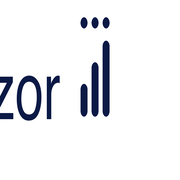
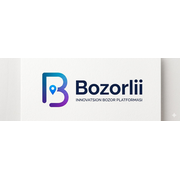
feat(brand): Switch from Karvon to Bozorliii
- Replace karvon→bozorliii across frontend/backend/merchant-crm/merchant-crm-mobile
- Update SITENAME, BRAND_NAME, domain bozorliii.uz, AGENT_TELEGRAM_HANDLE
- BozorliiiLogo component now uses real /logo.png image
- Copy logo.png to platform-admin & merchant-crm public dirs
- Regenerate favicon/icon files

diff --git a/frontend/src/components/brand/bozorliii-logo.tsx b/frontend/src/components/brand/bozorliii-logo.tsx
@@ -1,5 +1,6 @@
 "use client";
 
+import Image from "next/image";
 import Link from "next/link";
 
 import { cn } from "@/lib/utils";
@@ -37,92 +38,42 @@ export function BozorliiiLogo({
   const s = SIZE[size].scale;
   const capsuleLabel = badge?.trim() ?? "";
 
-  /* Icon: navy B badge */
-  const icon = (
+  /* Logo image rendered from /logo.png */
+  const logoImage = (
     <div
-      className="flex shrink-0 items-center justify-center font-black text-white select-none rounded-xl"
+      className="relative flex items-center justify-center"
       style={{
-        width: `${40 * s}px`,
+        width: `${120 * s}px`,
         height: `${40 * s}px`,
-        fontSize: `${22 * s}px`,
-        background: "#003366",
-        boxShadow: "0 2px 12px rgba(0,51,102,0.35)",
       }}
-      aria-hidden="true"
     >
-      B
+      <Image
+        src="/logo.png"
+        alt="Bozorliii"
+        fill
+        className="object-contain object-center"
+        priority
+        sizes={`${Math.round(120 * s)}px`}
+      />
     </div>
   );
 
-  /* Wordmark: BoZorlIII with three dots above "lii" */
-  const wordmark = (
-    <span className="inline-flex items-baseline font-black leading-none select-none" style={{ fontSize: `${24 * s}px` }}>
-      <span className="text-[#0a0a0a]">BoZor</span>
-      <span className="relative text-[#0a0a0a]">
-        {/* Three colourful dots */}
-        <span className="absolute left-0 right-0 -top-[1px] flex justify-center gap-[3px]">
-          <span
-            className="inline-block rounded-full"
-            style={{
-              width: `${6 * s}px`,
-              height: `${6 * s}px`,
-              background: "#003366",
-            }}
-          />
-          <span
-            className="inline-block rounded-full"
-            style={{
-              width: `${6 * s}px`,
-              height: `${6 * s}px`,
-              background: "#f59e0b",
-            }}
-          />
-          <span
-            className="inline-block rounded-full"
-            style={{
-              width: `${6 * s}px`,
-              height: `${6 * s}px`,
-              background: "#f97316",
-            }}
-          />
-        </span>
-        lI
-      </span>
-      <span className="text-[#0a0a0a]">II</span>
-    </span>
-  );
-
-  const brandText = (
-    <div className="flex flex-col justify-center leading-none">
-      <div className="flex items-baseline gap-1.5">
-        {variant !== "icon" ? wordmark : null}
-        {variant !== "icon" && capsuleLabel ? (
-          <span
-            className="inline-flex shrink-0 items-center rounded-md border font-bold tracking-wide"
-            style={{
-              fontSize: `${10 * s}px`,
-              padding: `${2 * s}px ${7 * s}px`,
-              borderColor: "#e2e8f0",
-              background: "#f8fafc",
-              color: "#64748b",
-            }}
-          >
-            {capsuleLabel}
-          </span>
-        ) : null}
-      </div>
-      {showTagline ? (
-        <span
-          className="font-semibold tracking-[0.15em] uppercase"
-          style={{
-            fontSize: `${9 * s}px`,
-            marginTop: `${3 * s}px`,
-            color: "#003366",
-          }}
-        >
-          INNOVATSION BOZOR PLATFORMASI
-        </span>
-      ) : null}
+  const iconBadge = (
+    <div
+      className="relative flex items-center justify-center overflow-hidden"
+      style={{
+        width: `${40 * s}px`,
+        height: `${40 * s}px`,
+      }}
+    >
+      <Image
+        src="/logo.png"
+        alt="Bozorliii"
+        fill
+        className="object-contain object-center"
+        priority
+        sizes={`${Math.round(40 * s)}px`}
+      />
     </div>
   );
 
@@ -135,8 +86,33 @@ export function BozorliiiLogo({
       )}
       style={{ gap: `${10 * s}px` }}
     >
-      {icon}
-      {variant !== "icon" ? brandText : null}
+      {variant === "icon" ? iconBadge : logoImage}
+      {variant !== "icon" && capsuleLabel ? (
+        <span
+          className="inline-flex shrink-0 items-center rounded-md border font-bold tracking-wide"
+          style={{
+            fontSize: `${10 * s}px`,
+            padding: `${2 * s}px ${7 * s}px`,
+            borderColor: "#e2e8f0",
+            background: "#f8fafc",
+            color: "#64748b",
+          }}
+        >
+          {capsuleLabel}
+        </span>
+      ) : null}
+      {showTagline ? (
+        <span
+          className="font-semibold tracking-[0.15em] uppercase"
+          style={{
+            fontSize: `${9 * s}px`,
+            marginTop: `${3 * s}px`,
+            color: "#003366",
+          }}
+        >
+          INNOVATSIYON BOZOR PLATFORMASI
+        </span>
+      ) : null}
     </div>
   );
 

diff --git a/merchant-crm/src/components/brand/bozorliii-logo.tsx b/merchant-crm/src/components/brand/bozorliii-logo.tsx
@@ -1,5 +1,6 @@
 "use client";
 
+import Image from "next/image";
 import Link from "next/link";
 
 import { cn } from "@/lib/utils";
@@ -37,92 +38,42 @@ export function BozorliiiLogo({
   const s = SIZE[size].scale;
   const capsuleLabel = badge?.trim() ?? "";
 
-  /* Icon: navy B badge */
-  const icon = (
+  /* Logo image rendered from /logo.png */
+  const logoImage = (
     <div
-      className="flex shrink-0 items-center justify-center font-black text-white select-none rounded-xl"
+      className="relative flex items-center justify-center"
       style={{
-        width: `${40 * s}px`,
+        width: `${120 * s}px`,
         height: `${40 * s}px`,
-        fontSize: `${22 * s}px`,
-        background: "#003366",
-        boxShadow: "0 2px 12px rgba(0,51,102,0.35)",
       }}
-      aria-hidden="true"
     >
-      B
+      <Image
+        src="/logo.png"
+        alt="Bozorliii"
+        fill
+        className="object-contain object-center"
+        priority
+        sizes={`${Math.round(120 * s)}px`}
+      />
     </div>
   );
 
-  /* Wordmark: BoZorlIII with three dots above "lii" */
-  const wordmark = (
-    <span className="inline-flex items-baseline font-black leading-none select-none" style={{ fontSize: `${24 * s}px` }}>
-      <span className="text-[#0a0a0a]">BoZor</span>
-      <span className="relative text-[#0a0a0a]">
-        {/* Three colourful dots */}
-        <span className="absolute left-0 right-0 -top-[1px] flex justify-center gap-[3px]">
-          <span
-            className="inline-block rounded-full"
-            style={{
-              width: `${6 * s}px`,
-              height: `${6 * s}px`,
-              background: "#003366",
-            }}
-          />
-          <span
-            className="inline-block rounded-full"
-            style={{
-              width: `${6 * s}px`,
-              height: `${6 * s}px`,
-              background: "#f59e0b",
-            }}
-          />
-          <span
-            className="inline-block rounded-full"
-            style={{
-              width: `${6 * s}px`,
-              height: `${6 * s}px`,
-              background: "#f97316",
-            }}
-          />
-        </span>
-        lI
-      </span>
-      <span className="text-[#0a0a0a]">II</span>
-    </span>
-  );
-
-  const brandText = (
-    <div className="flex flex-col justify-center leading-none">
-      <div className="flex items-baseline gap-1.5">
-        {variant !== "icon" ? wordmark : null}
-        {variant !== "icon" && capsuleLabel ? (
-          <span
-            className="inline-flex shrink-0 items-center rounded-md border font-bold tracking-wide"
-            style={{
-              fontSize: `${10 * s}px`,
-              padding: `${2 * s}px ${7 * s}px`,
-              borderColor: "#e2e8f0",
-              background: "#f8fafc",
-              color: "#64748b",
-            }}
-          >
-            {capsuleLabel}
-          </span>
-        ) : null}
-      </div>
-      {showTagline ? (
-        <span
-          className="font-semibold tracking-[0.15em] uppercase"
-          style={{
-            fontSize: `${9 * s}px`,
-            marginTop: `${3 * s}px`,
-            color: "#003366",
-          }}
-        >
-          INNOVATSION BOZOR PLATFORMASI
-        </span>
-      ) : null}
+  const iconBadge = (
+    <div
+      className="relative flex items-center justify-center overflow-hidden"
+      style={{
+        width: `${40 * s}px`,
+        height: `${40 * s}px`,
+      }}
+    >
+      <Image
+        src="/logo.png"
+        alt="Bozorliii"
+        fill
+        className="object-contain object-center"
+        priority
+        sizes={`${Math.round(40 * s)}px`}
+      />
     </div>
   );
 
@@ -135,8 +86,33 @@ export function BozorliiiLogo({
       )}
       style={{ gap: `${10 * s}px` }}
     >
-      {icon}
-      {variant !== "icon" ? brandText : null}
+      {variant === "icon" ? iconBadge : logoImage}
+      {variant !== "icon" && capsuleLabel ? (
+        <span
+          className="inline-flex shrink-0 items-center rounded-md border font-bold tracking-wide"
+          style={{
+            fontSize: `${10 * s}px`,
+            padding: `${2 * s}px ${7 * s}px`,
+            borderColor: "#e2e8f0",
+            background: "#f8fafc",
+            color: "#64748b",
+          }}
+        >
+          {capsuleLabel}
+        </span>
+      ) : null}
+      {showTagline ? (
+        <span
+          className="font-semibold tracking-[0.15em] uppercase"
+          style={{
+            fontSize: `${9 * s}px`,
+            marginTop: `${3 * s}px`,
+            color: "#003366",
+          }}
+        >
+          INNOVATSIYON BOZOR PLATFORMASI
+        </span>
+      ) : null}
     </div>
   );
 
